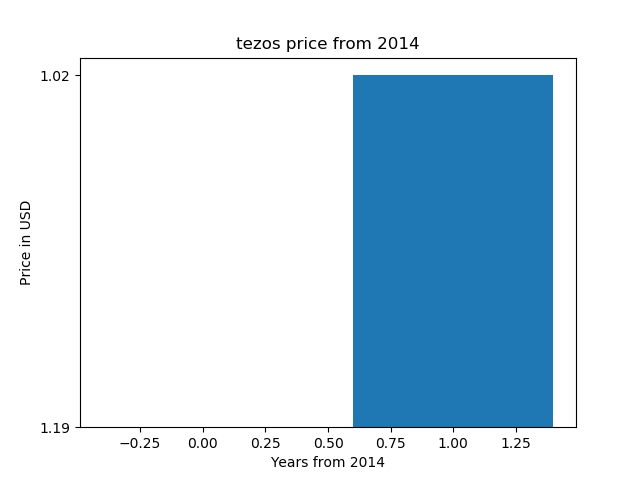
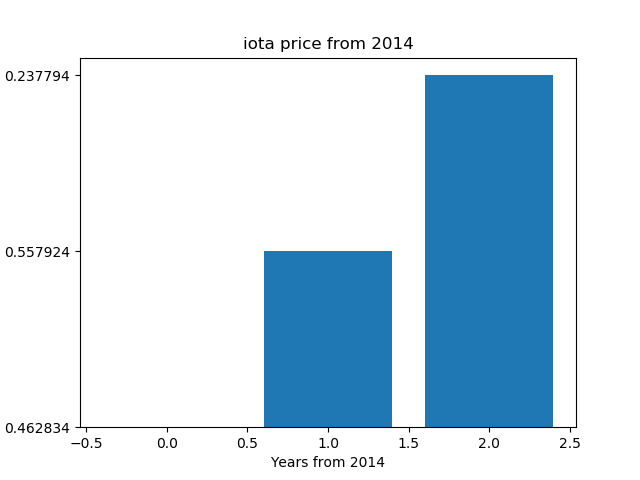
first commit

diff --git a/example.py b/example.py
@@ -10,7 +10,7 @@ from time import gmtime, strftime
 import matplotlib.pyplot as plt
 
 enddate = strftime("%Y%m%d", gmtime())
-r  = requests.get("https://coinmarketcap.com/currencies/tezos/historical-data/?start=20140101&end={0}".format(enddate))
+r  = requests.get("https://coinmarketcap.com/currencies/iota/historical-data/?start=20140101&end={0}".format(enddate))
 data = r.text
 
 soup = BeautifulSoup(data, "html.parser")
@@ -37,7 +37,7 @@ print(prices)
 
 x = list(range(0, len(prices)))
 
-plt.title('tezos price from 2014')
+plt.title('iota price from 2014')
 plt.ylabel('Price in USD')
 plt.xlabel('Years from 2014')
 plt.bar(x, prices)

diff --git a/README.md b/README.md
@@ -1,6 +1,6 @@
-# tezos price chart 
+# iota price chart 
 
-tezos price chart (matplotlib, python)
+iota price chart (matplotlib, python)
 
 https://pythonprogramminglanguage.com
 
